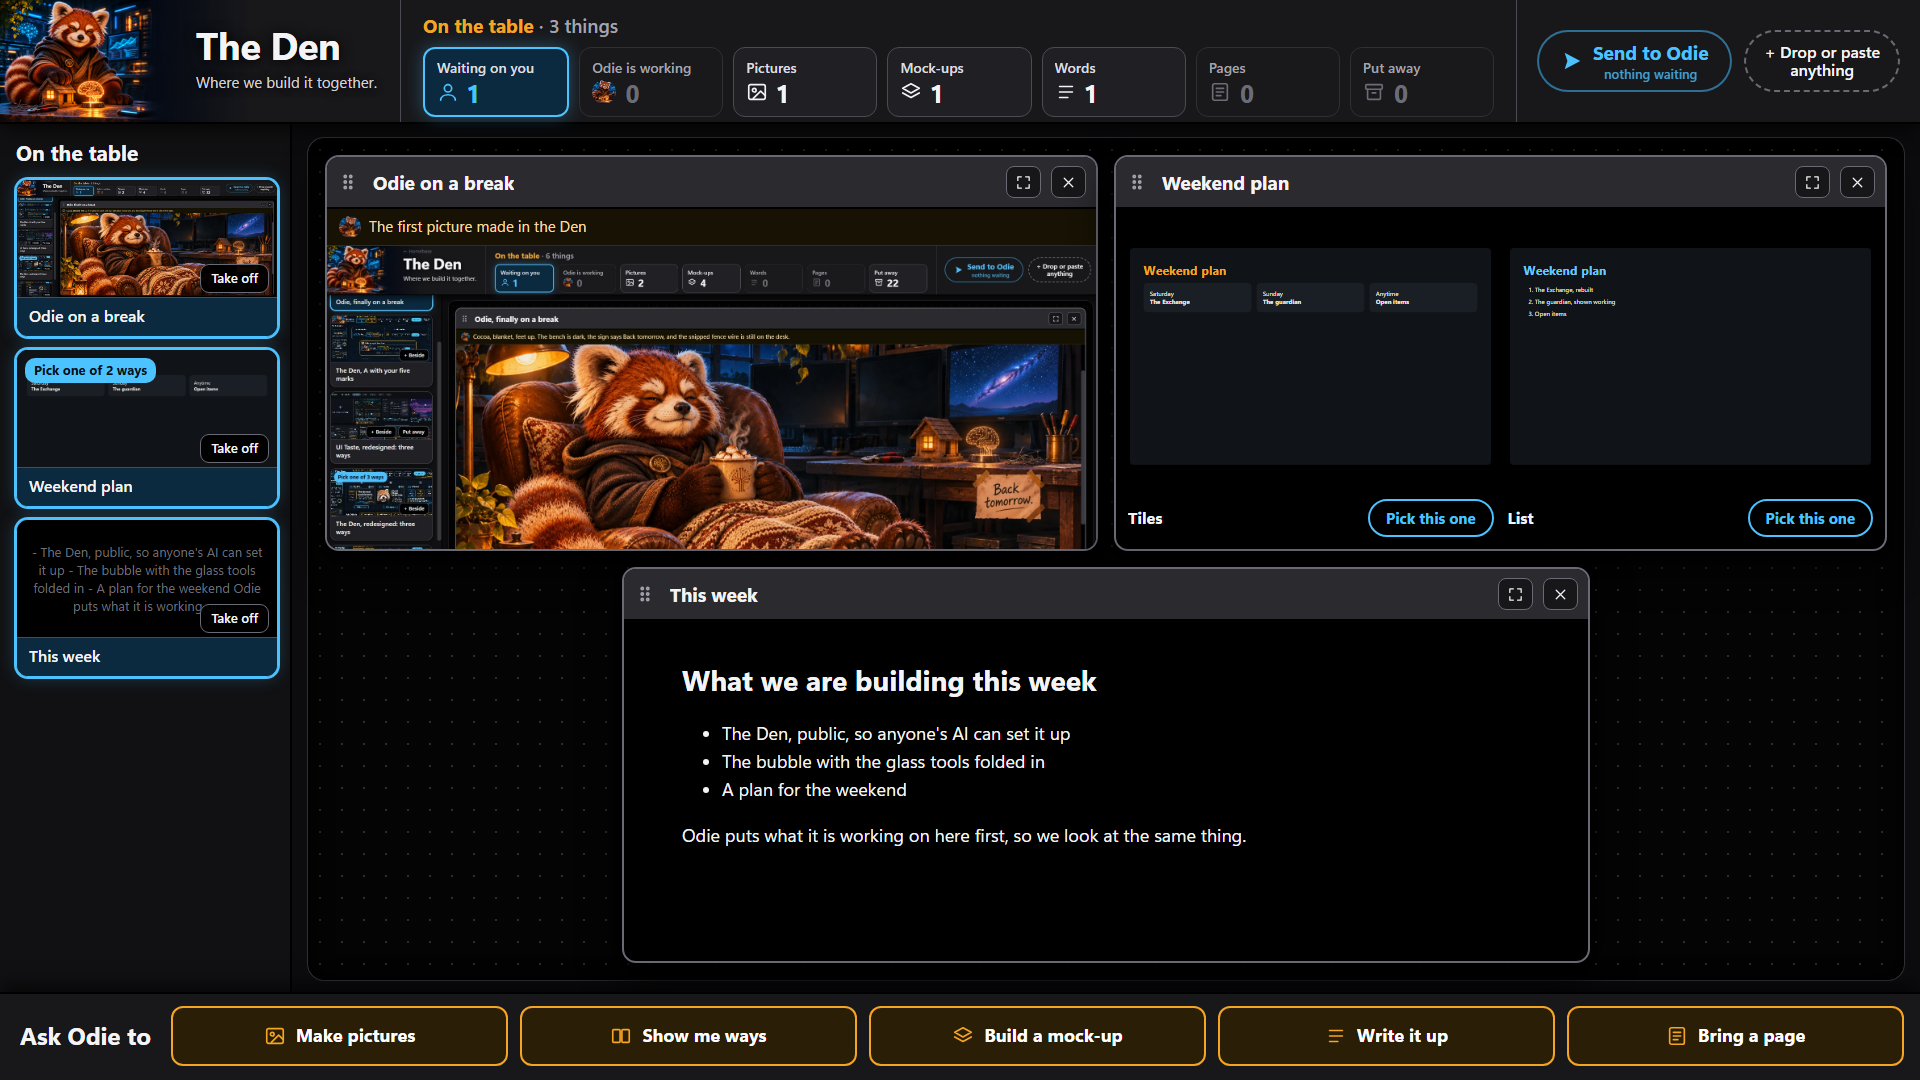
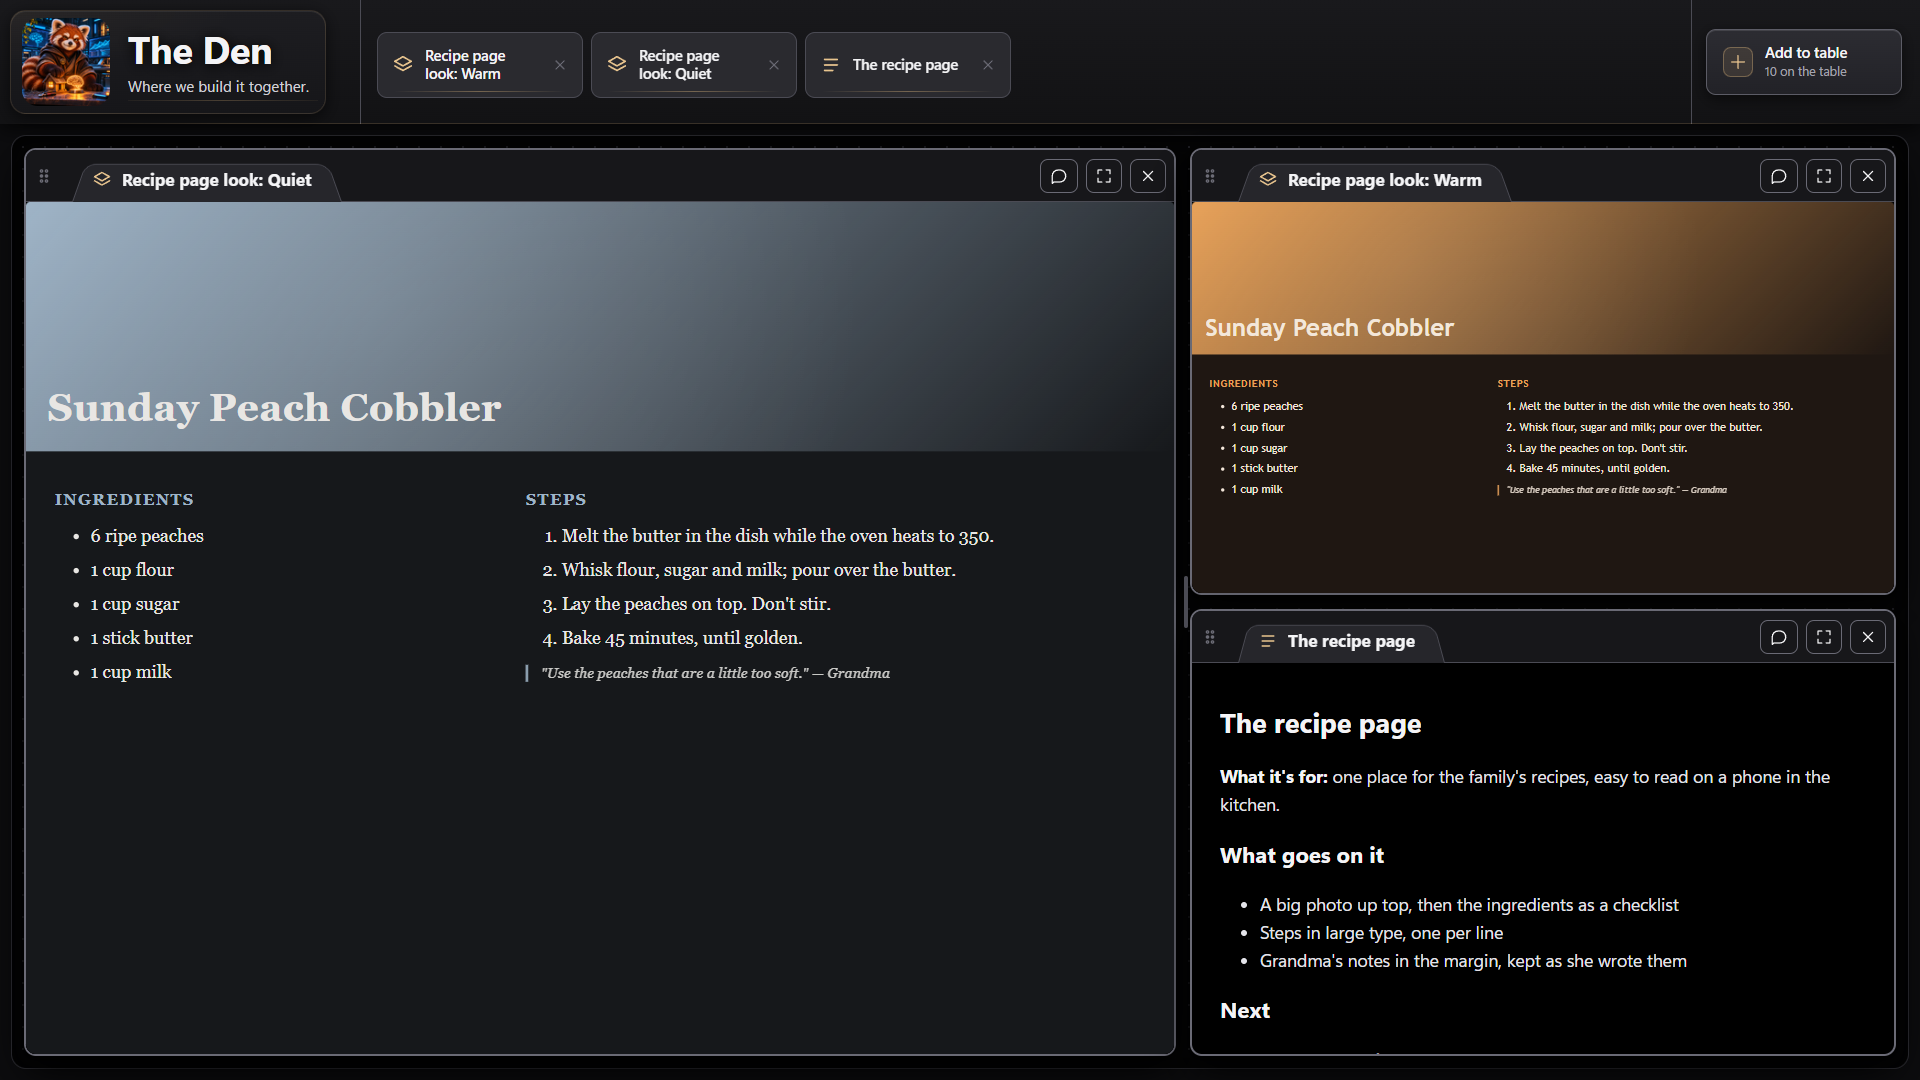
The nameplate shows the AI's face (it pointed at a mark only our Homebase serves); a fresh picture of the new Den for the README

diff --git a/app/index.html b/app/index.html
@@ -45,7 +45,7 @@ svg.i { width: 20px; height: 20px; fill: none; stroke: currentColor; stroke-widt
 #brand.working i.mote { display: block; }
 @keyframes mote { from { left: 128px; opacity: 0; } 15% { opacity: 1; } 85% { opacity: 1; } to { left: 311px; opacity: 0; } }
 @media (prefers-reduced-motion: reduce) { #brand i.mote { animation: none; left: 220px; } }
-#brand::before { z-index: 1; content: ''; position: absolute; left: 22px; top: 18px; width: 88px; height: 88px; border-radius: 16px; background: url(/mark/workbench.png?v=lav) center / cover no-repeat; }
+#brand::before { z-index: 1; content: ''; position: absolute; left: 22px; top: 18px; width: 88px; height: 88px; border-radius: 16px; background: url(face.png) center / cover no-repeat; }
 #brand b { z-index: 1; position: absolute; left: 128px; top: 30px; font-size: 38px; line-height: 1; font-weight: 700; letter-spacing: -.5px; text-shadow: 0 2px 14px #000; }
 #brand small { z-index: 1; position: absolute; left: 128px; top: 76px; font-size: 15px; color: #d0d0d6; }
 #nav { flex: none; display: flex; flex-direction: column; justify-content: center; gap: 8px; padding: 0 18px 0 4px; border-right: 1px solid var(--line2); }
